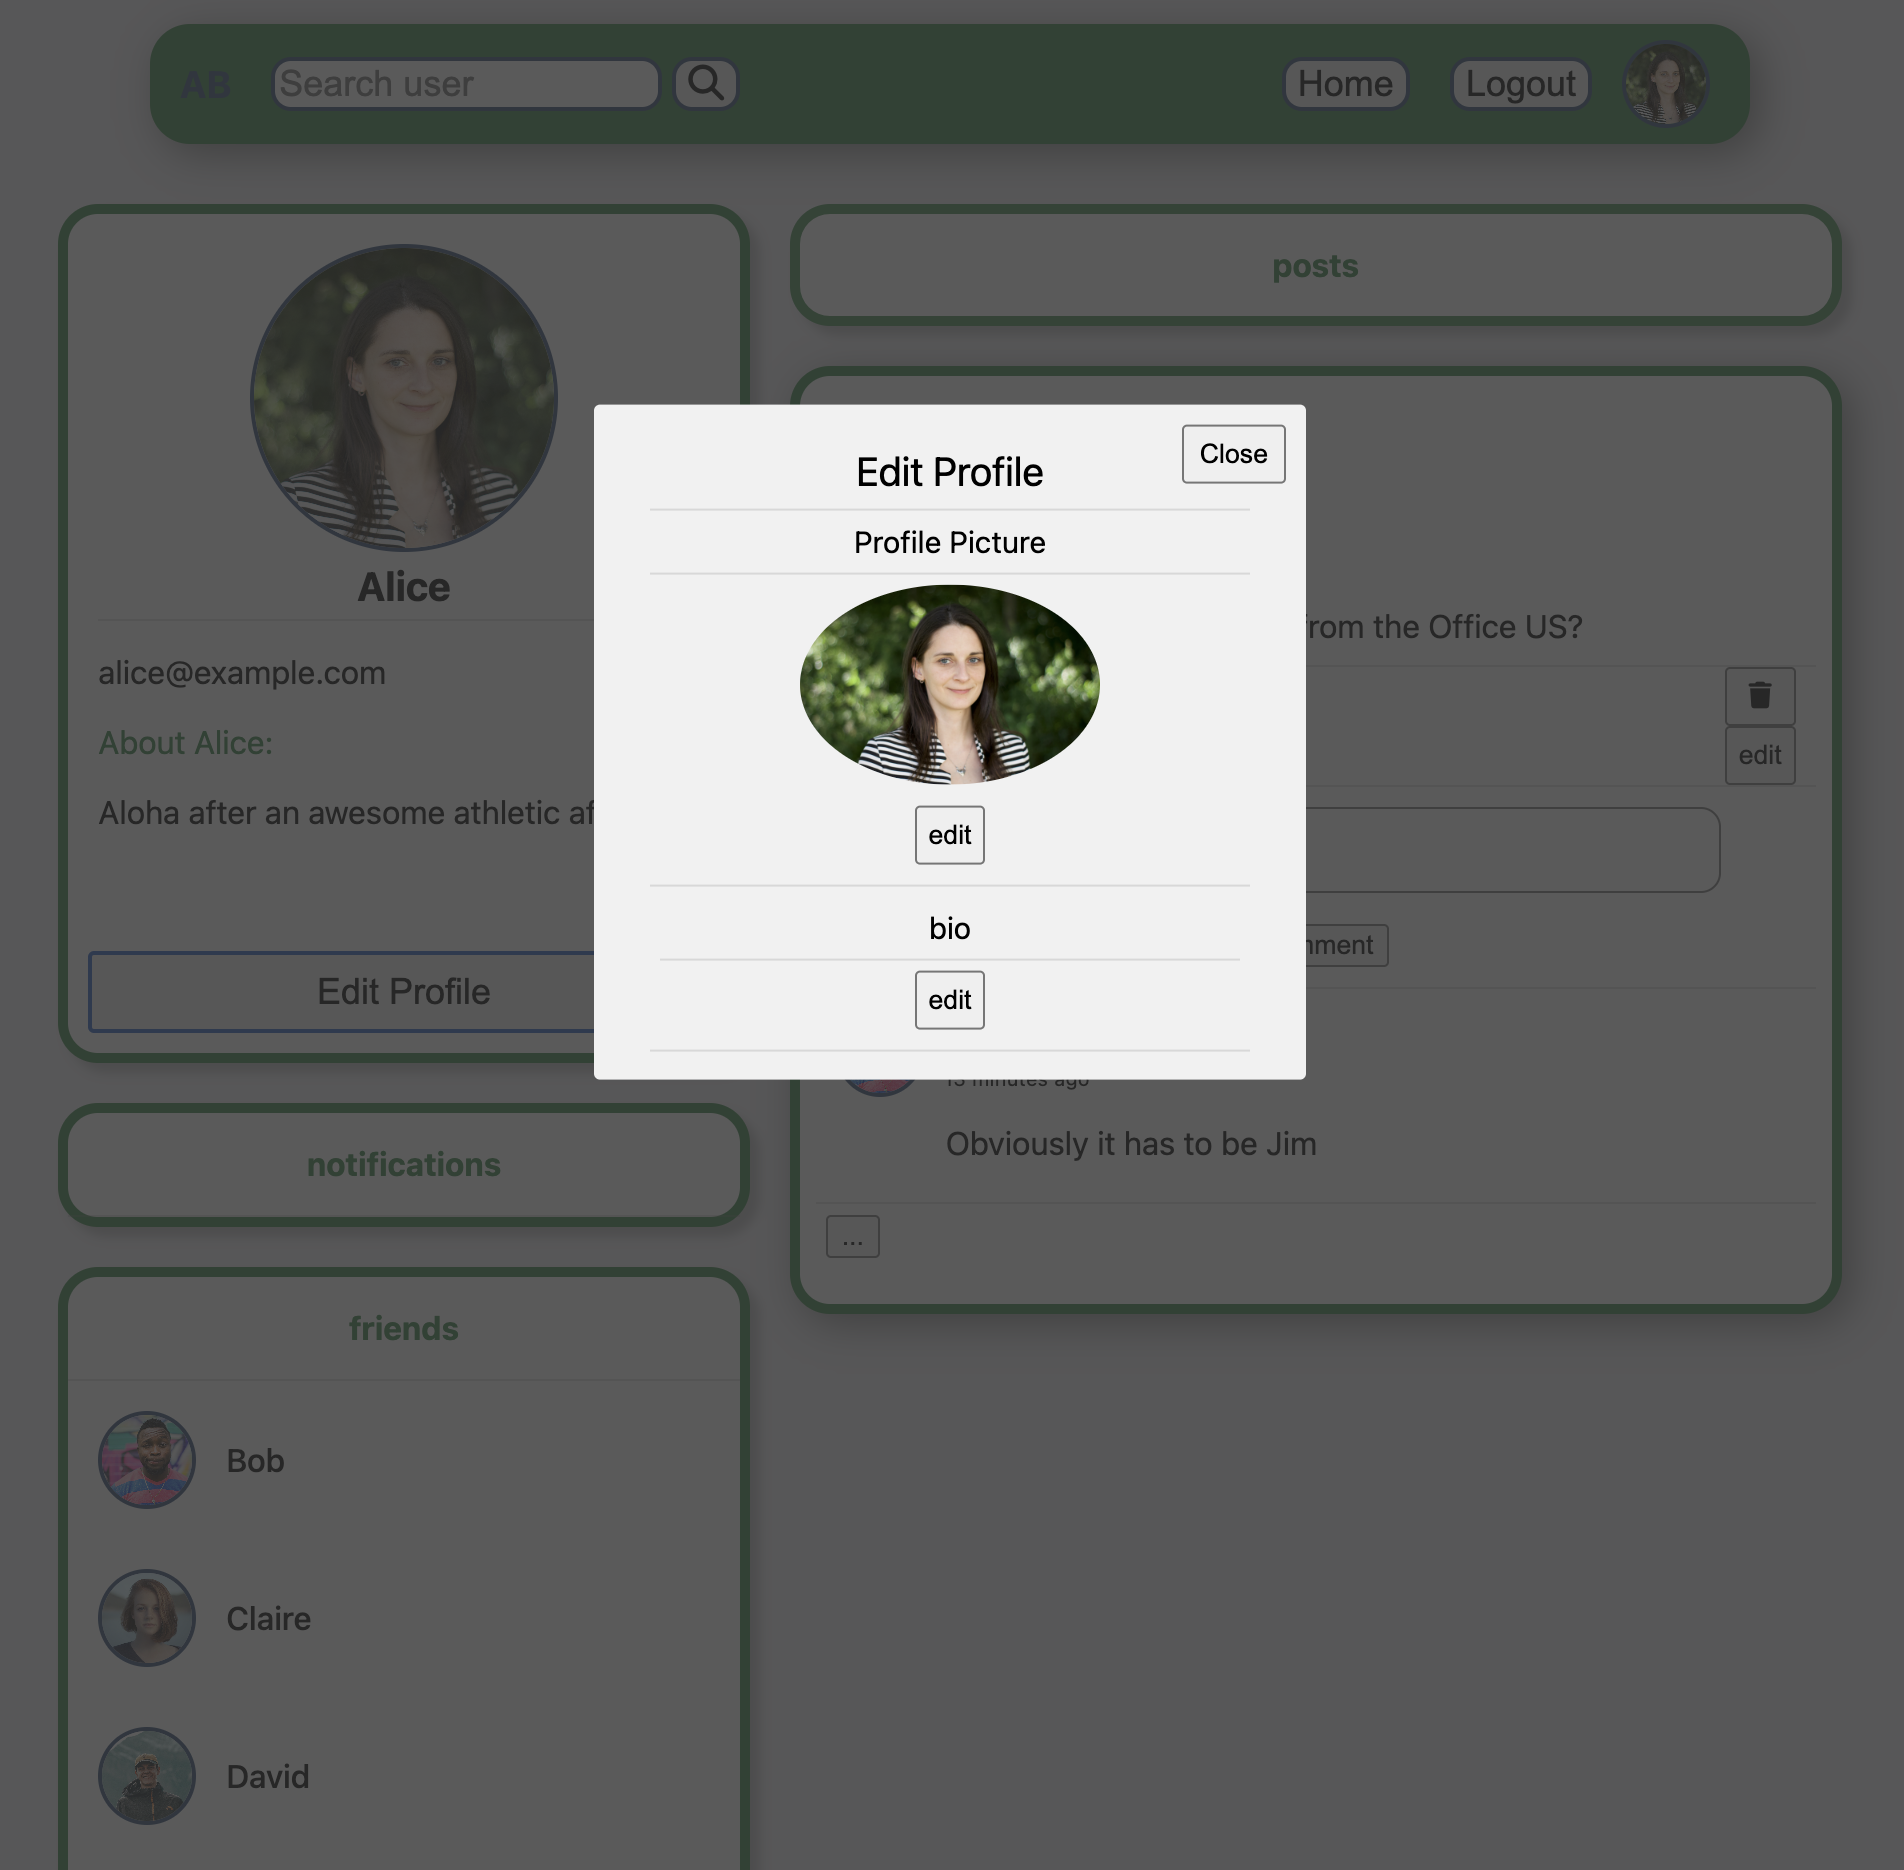
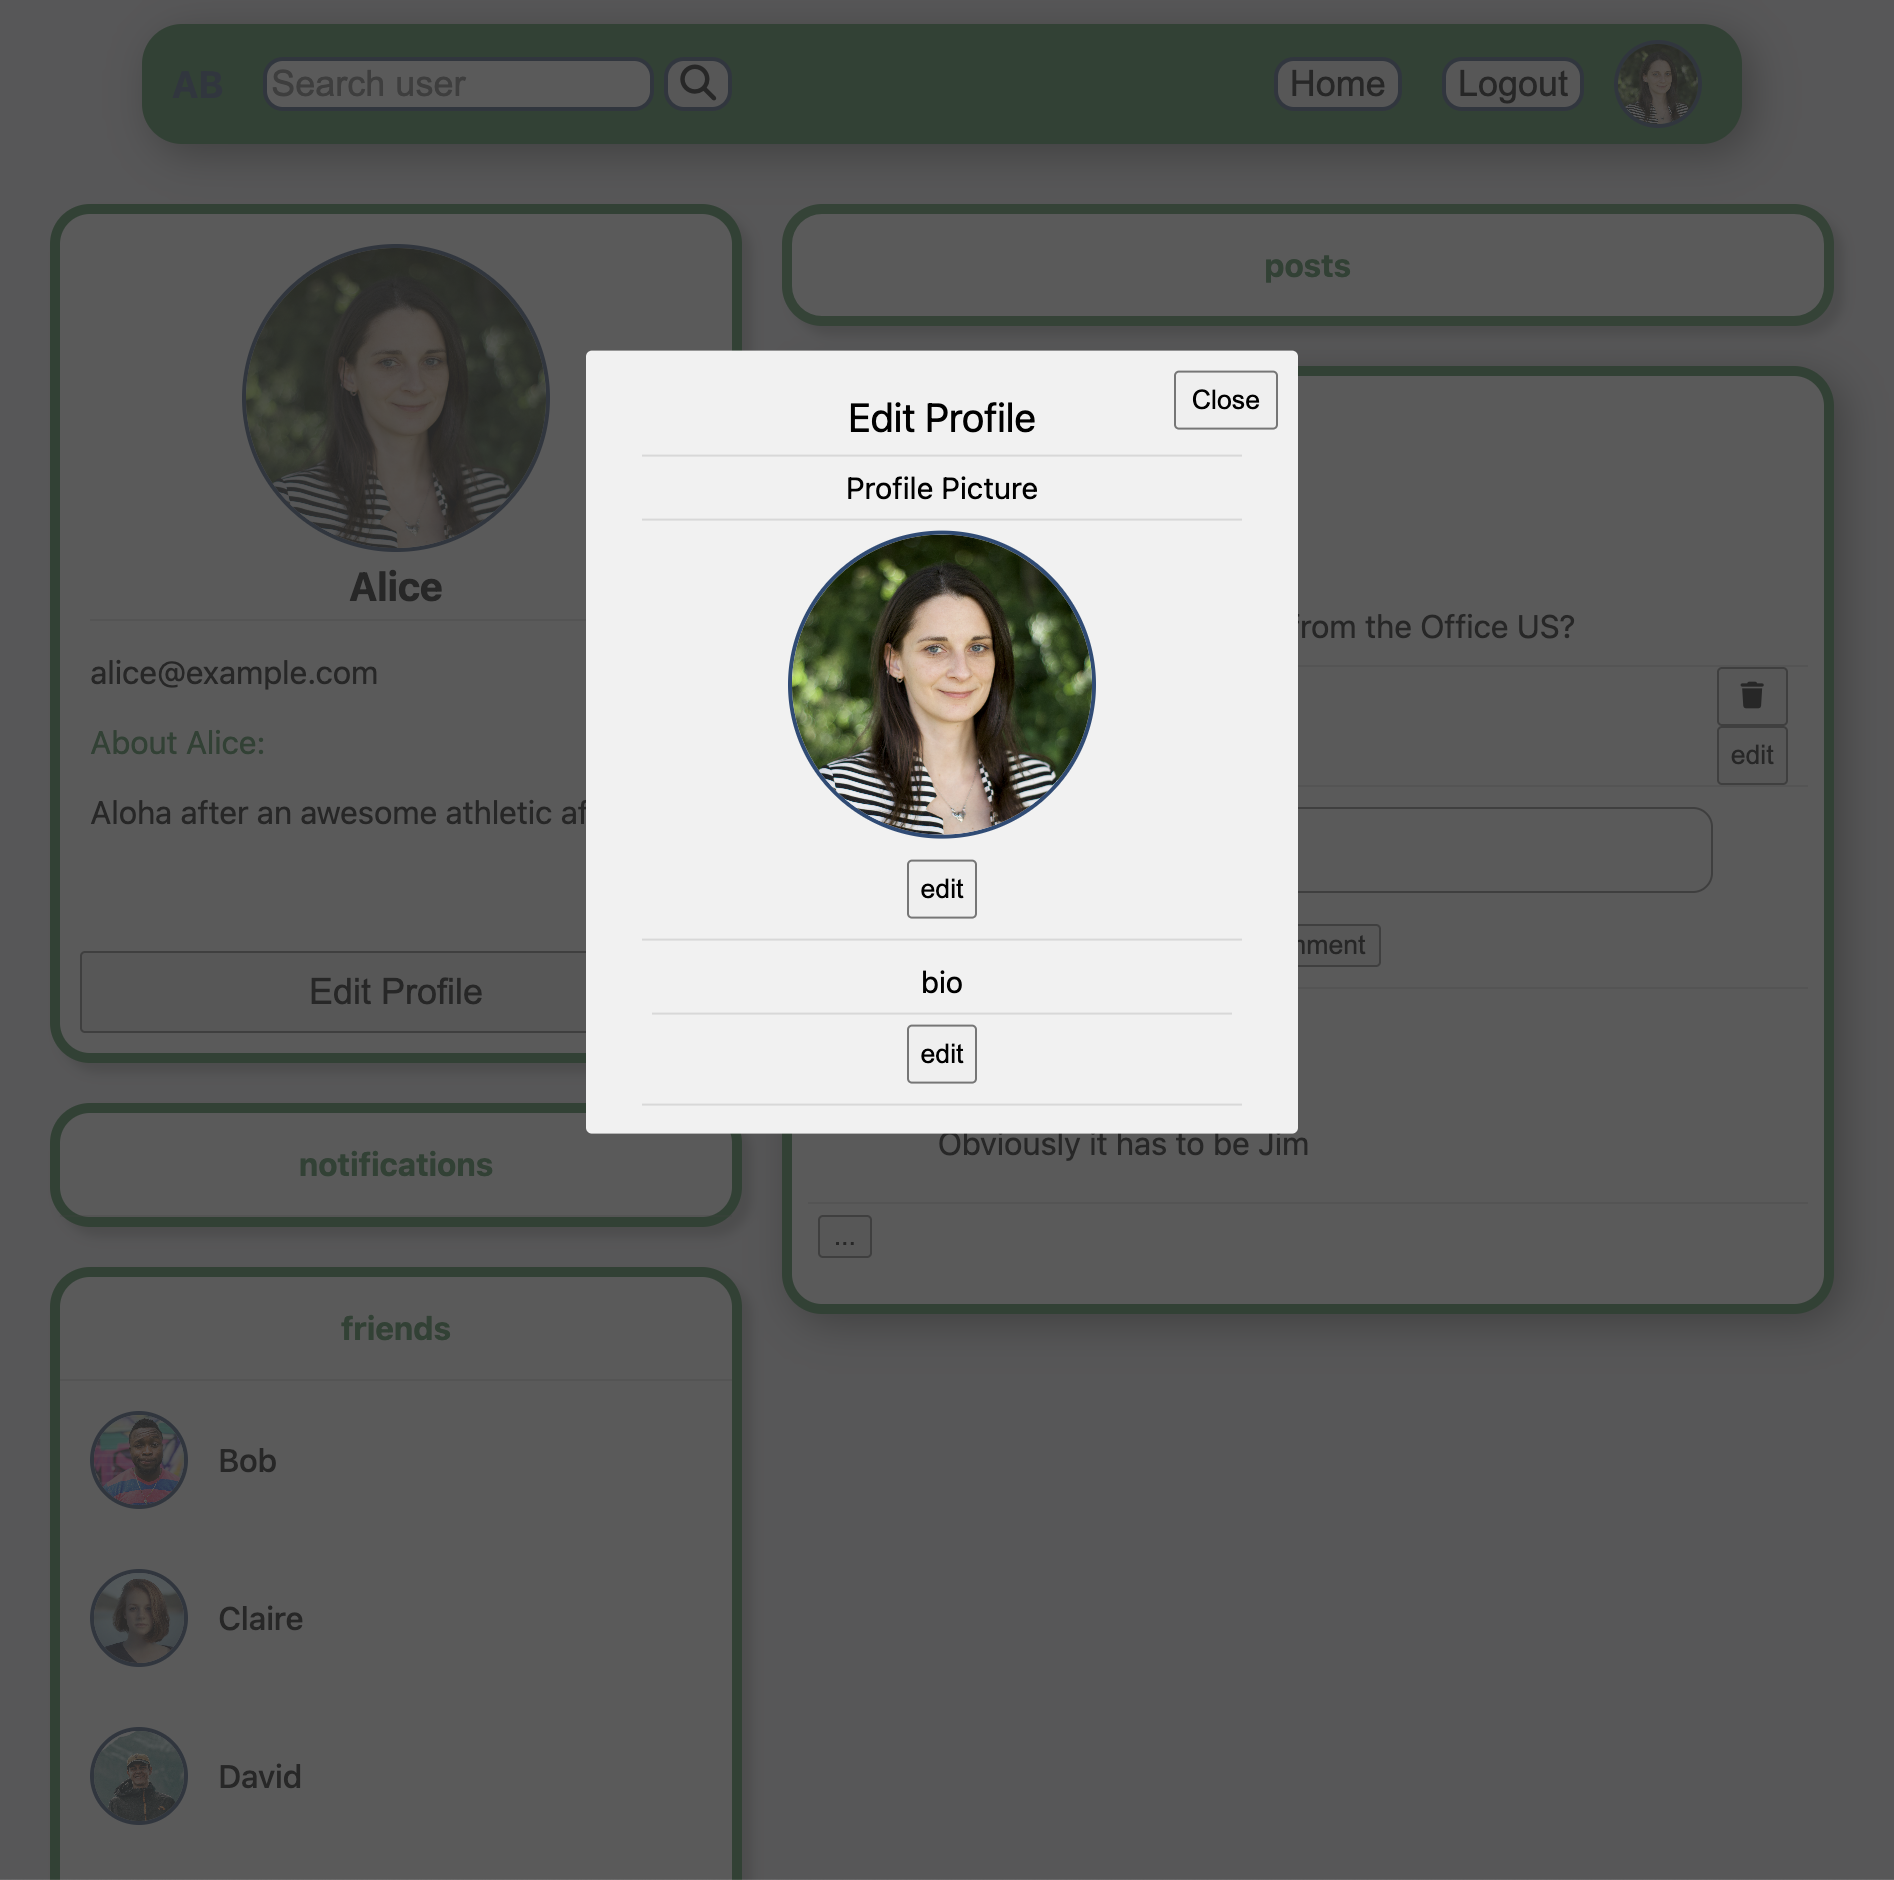
User edit screen updated w/ screenshot

diff --git a/frontend/src/components/EditUserModal/EditUserModal.css b/frontend/src/components/EditUserModal/EditUserModal.css
@@ -75,8 +75,11 @@ body.active-modal {
 }
 
 .profile-picture img{
-    max-height: 100px;
-    min-height: 100px;
-    border-radius: 100%;
+    width: 150px;
+    height: 150px;
+    border: 2px solid #274C77;
+    object-fit: cover;
+    border-radius: 50%;
+    justify-content: center;
 }
 

diff --git a/frontend/src/components/EditProfilePictureModal/EditProfilePictureModal.css b/frontend/src/components/EditProfilePictureModal/EditProfilePictureModal.css
@@ -7,5 +7,5 @@
 }
 
 .upload-button-container {
-    padding: 5px 5px 0 5px;
+    padding: 5px 5px 5px 5px;
 }
